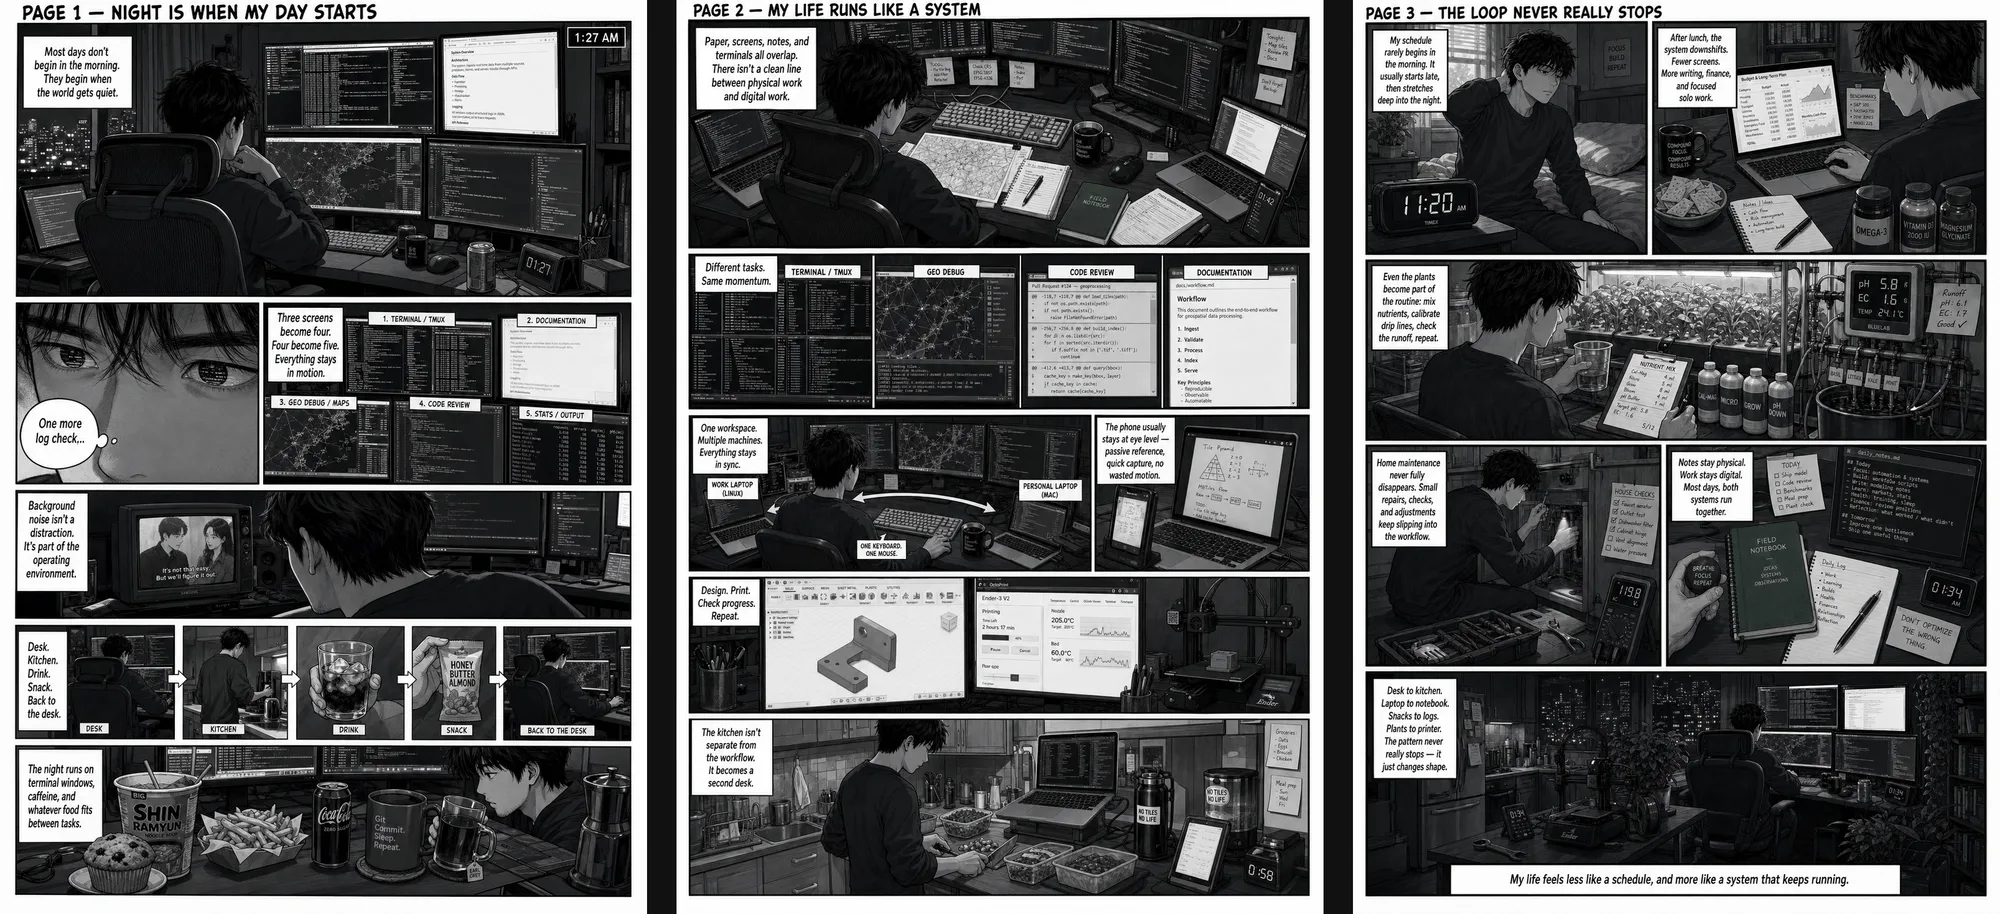
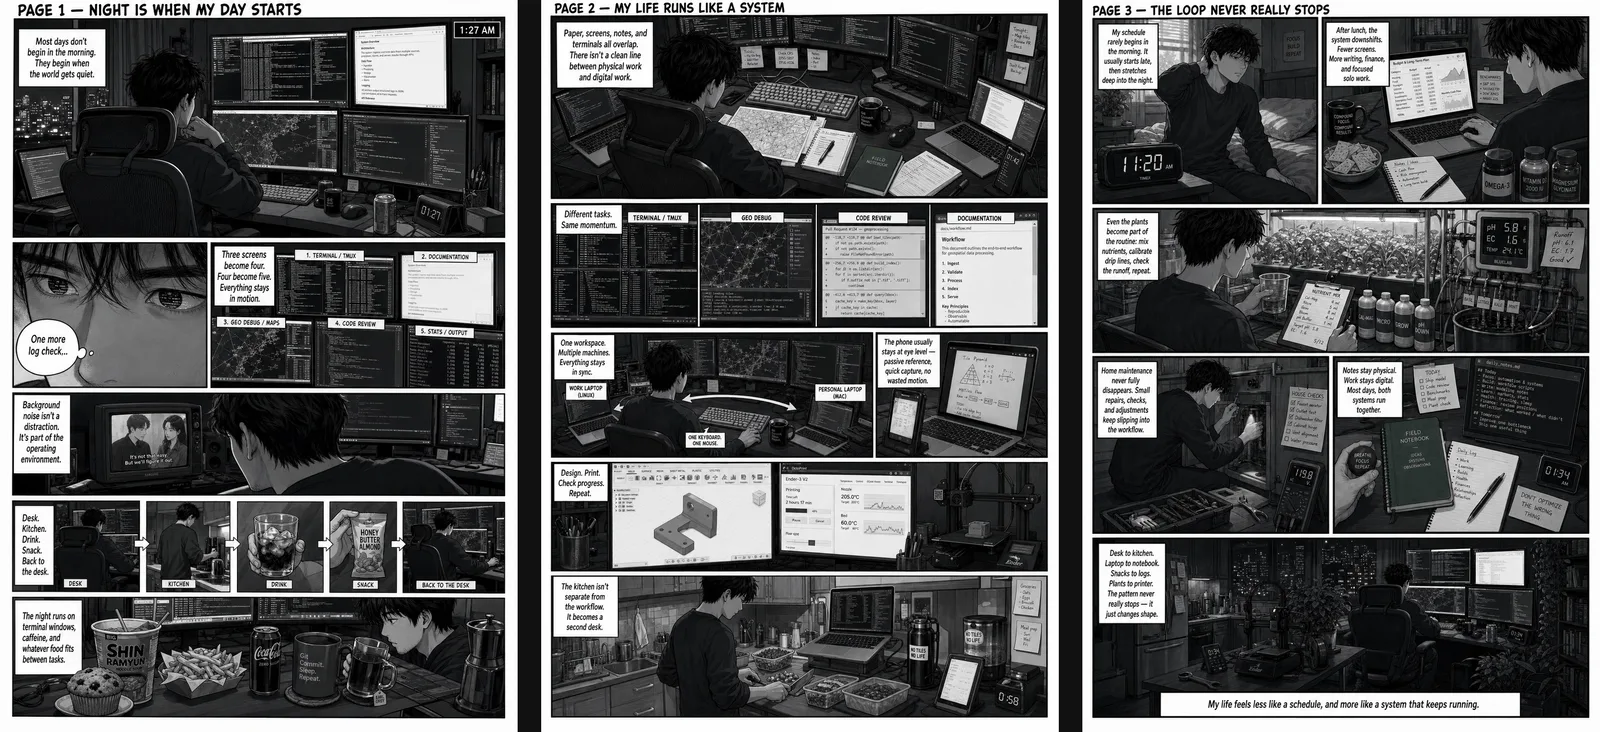
Witness: hold to the detail-page guide
- 13 screens: the inbox and the coffee become one screen
- the project's time in the past tense ("could now" became "by then ... could")
- fewer colon reveals in the notes
- Capture draws its strip and triggers as .obj groups; Capture and Tiers keep their own delays over the shared ones
- the wrong line's underline no longer animates its colour (transform and opacity only)
- the photo wall is lifted off its white poster; wall and manga at most 1600px wide
- the opener fades in place, the lead included; Begin is in by 5.5 s

Claude-Session: https://claude.ai/code/session_01UfBr3gTV4yoMXMccGtv3jk

diff --git a/src/styles/detail.css b/src/styles/detail.css
@@ -405,7 +405,4 @@ figure.file pre > * { display: block }
 figure.file pre > * + * { margin-top: .55em }
 figure.file .h, figure.file i { color: var(--paper-dim); font-style: normal }
 figure.file mark { background: none; color: inherit; text-decoration: underline wavy var(--signal); text-decoration-thickness: 1.5px; text-underline-offset: 4px; text-decoration-skip-ink: none }
-html.js .scene figure.file mark { text-decoration-color: transparent; transition: text-decoration-color .8s ease 1.4s }
-html.js .scene.on figure.file mark { text-decoration-color: var(--signal) }
 @media (max-width: 600px) { figure.file pre { font-size: 11px; padding: 12px 12px 14px } figure.file figcaption { padding-inline: 12px } }
-@media (prefers-reduced-motion: reduce) { html.js .scene figure.file mark { text-decoration-color: var(--signal); transition: none } }

diff --git a/src/content/details/space-self-log.md b/src/content/details/space-self-log.md
@@ -12,12 +12,9 @@ openerMedia: /media/works/space-self-log/frame.webp
 openerNote: "It saw what I saw. Then it decided what it meant."
 scenes:
   - line: "It knew my inbox, my calendar and my files.\nIt had never seen my kitchen."
-    note: "In early 2026, personal agents like OpenClaw took off. They run on your own computer, work for you through chat, and remember you for months. All they know of you is what you type."
+    note: "In early 2026, personal agents like OpenClaw took off. They ran on your own computer and remembered you for months, yet all they knew of you was what you typed. Nothing I typed said that my coffee goes cold once I start working."
     year: "2026"
-  - line: "Nothing I typed said that my coffee goes cold once I start working."
-    note: "Most of a life happens away from the screen: where you are, what you reach for, when you stop. An agent that can’t see it fits itself to half of you."
-    year: "2026"
-  - line: "Its memory is plain text.\nAnything that can write a note can teach it."
+  - line: "Its memory was plain text.\nAnything that could write a note could teach it."
     file:
       name: "~/.openclaw/workspace · read before it acts"
       lines:
@@ -25,7 +22,7 @@ scenes:
         - "USER.md      # who you are: preferences, habits"
         - "MEMORY.md    # facts it keeps for good"
         - "memory/      # a log for each day"
-    note: "OpenClaw keeps what it knows about you in markdown files like these. Vision-language models can now turn a photo into a few sentences. The two fit together without rebuilding the agent."
+    note: "OpenClaw kept what it knew about you in markdown files like these. By then, vision-language models could turn a photo into a few sentences. The two fit together without rebuilding the agent."
     year: "2026"
   - lead: "So I gave it eyes, and called it"
     line: "Witness"
@@ -55,6 +52,7 @@ scenes:
     caption: "Part of the photo wall: the frames it kept, in time order, March 22 to April 30, 2026. A few moments are pulled out."
     media: /media/works/space-self-log/wall.webp
     alt: "Rows of tiny frames in time order; two clusters from the evening of April 10 are enlarged"
+    cutout: true
     wide: true
     year: "2026"
   - line: "It learned where my life happens."
@@ -91,13 +89,13 @@ scenes:
       - { t: "Trace every belief", d: "Each line of the profile should lead back to the frames behind it, so a wrong one can be found and undone" }
       - { t: "Correct it by talking", d: "No one reviews 157 hours of frames. Feedback has to come in conversation" }
       - { t: "Remember what it said", d: "When it spoke first, it repeated itself. It needs to know what it already sent, and what went unanswered" }
-      - { t: "A switch you can see", d: "Off should be obvious. I took it off for video calls: the people around me never agreed to be seen" }
+      - { t: "A switch you can see", d: "Off should be obvious. I took it off for video calls, since the people around me never agreed to be seen" }
     year: "2026"
   - caption: "At the end, I asked it to draw my life as a manga."
     media: /media/works/space-self-log/manga.webp
     alt: "Three manga pages: late nights at a desk of many screens, the kitchen, plants and a 3D printer"
     line: "Seeing was the easy part."
-    note: "It got the shape of my days: late nights, many screens, desk to kitchen and back. What it comes to believe about me is the part to design."
+    note: "It got the shape of my days right, the late nights, the many screens, desk to kitchen and back. What it comes to believe about me is the part to design."
     tone: ink
     wide: true
 colophon:
